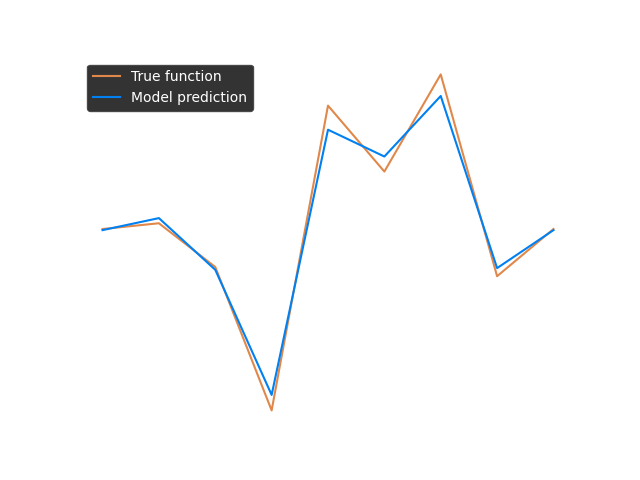
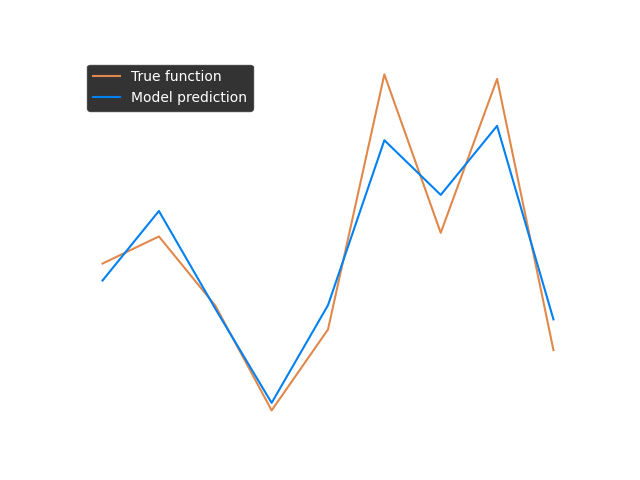
back to arange again

diff --git a/qml_essentials/coefficients.py b/qml_essentials/coefficients.py
@@ -1434,7 +1434,7 @@ class Datasets:
         # permute with input dimensionality to get an n-d grid of domain samples
         # the output shape comes from the fact that want to create a "coordinate system"
         domain_samples_per_input_dim = np.stack(
-            np.meshgrid(*[np.linspace(0, 2 * np.pi, d) for d in model.degree])
+            np.meshgrid(*[np.arange(0, 2 * np.pi, 2 * np.pi / d) for d in model.degree])
         ).T.reshape(-1, model.n_input_feat)
 
         # generate the frequency indices for each dimension.

diff --git a/tests/test_coefficients.py b/tests/test_coefficients.py
@@ -682,7 +682,7 @@ def test_fourier_series_dataset() -> None:
                 coefficients,
                 coefficients_hat,
                 atol=1e-6,
-            ), "Frequencies don't match"
+            ), f"Frequencies don't match for test case {test_case}"
 
             assert np.all(
                 domain_samples.shape
